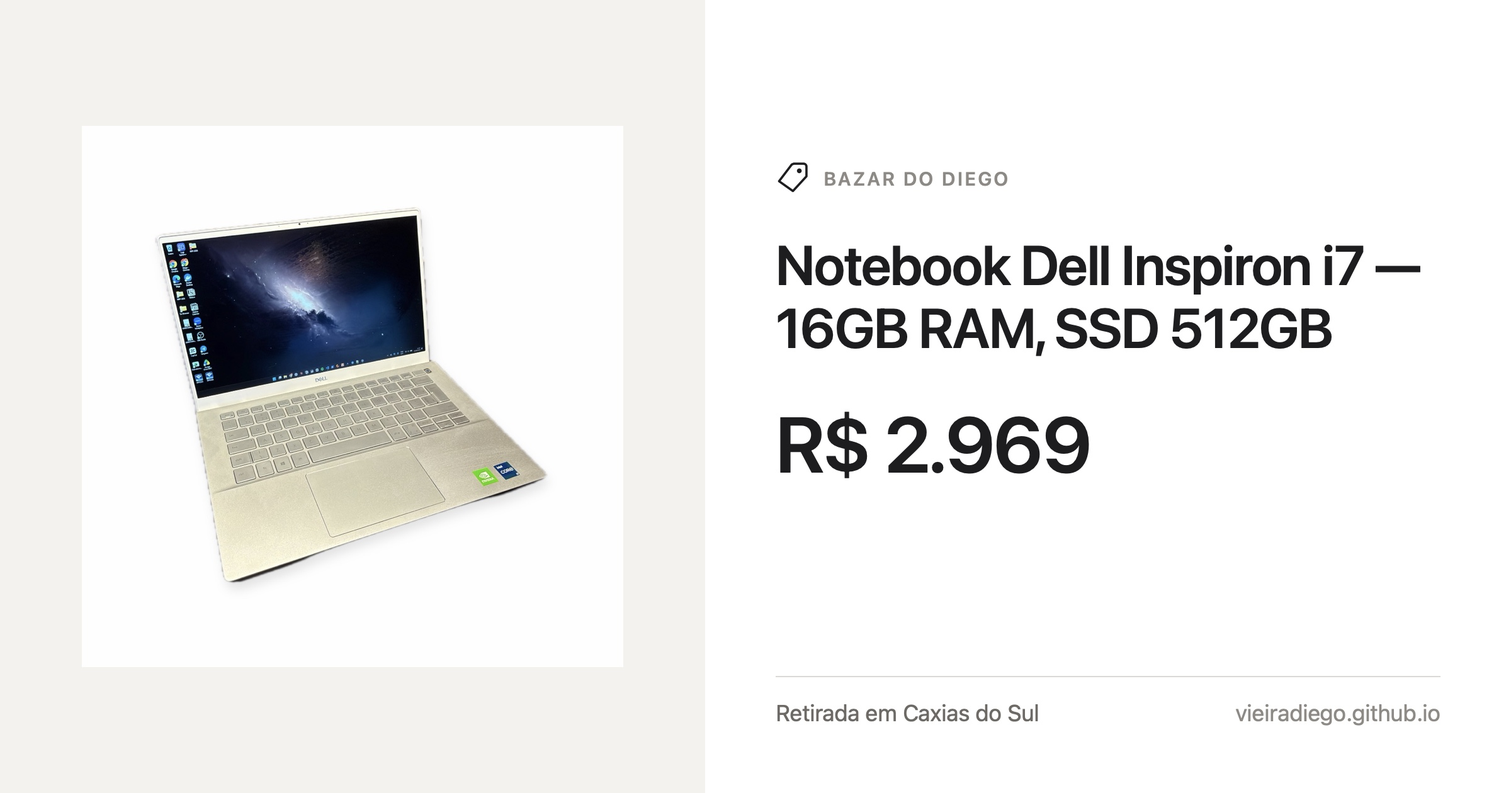
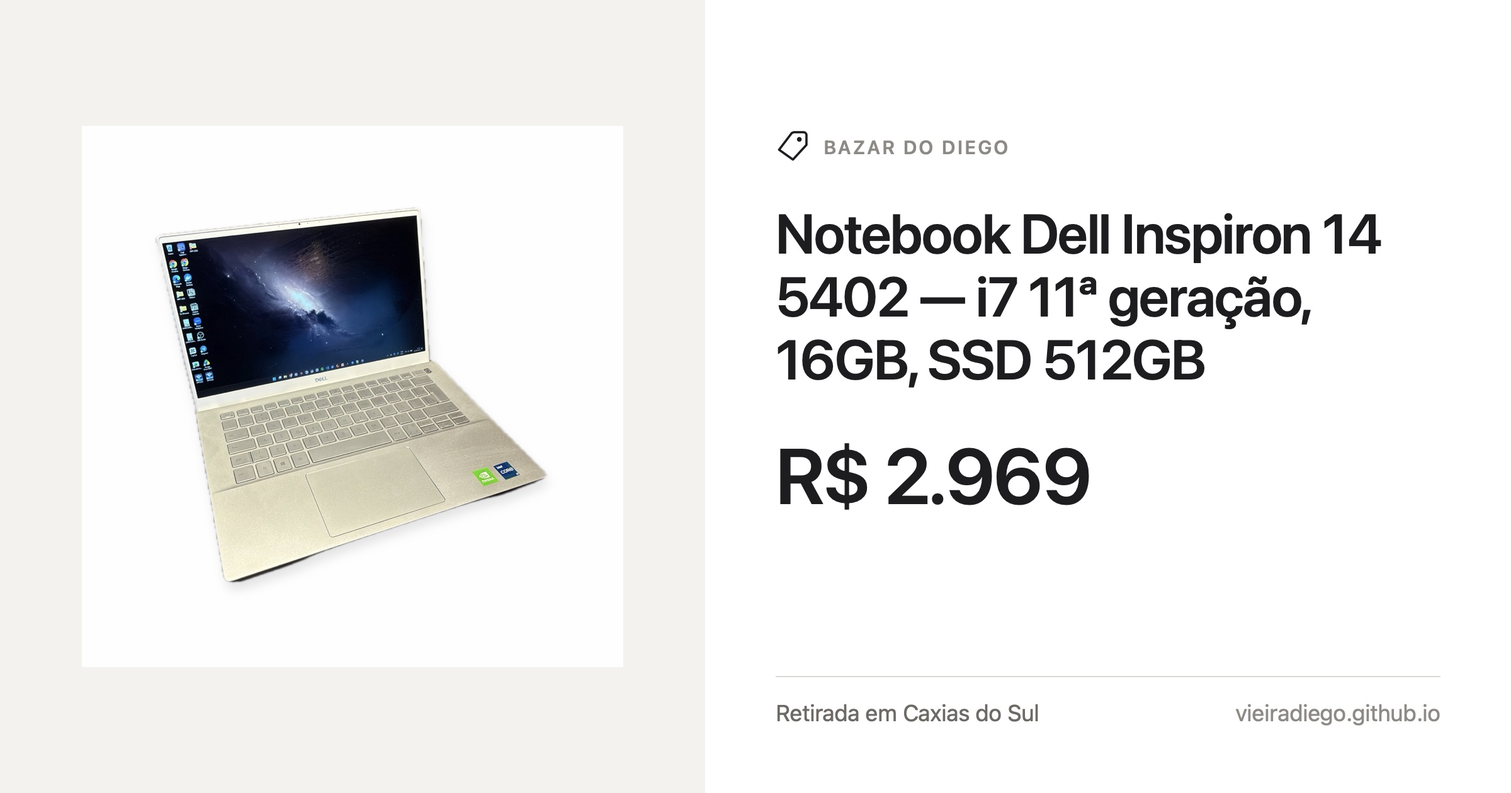
Ficha real do notebook, vinda da Service Tag
Dell Inspiron 14 5402: i7-1165G7 de 11ª geração, 16GB DDR4 3200 em dois
pentes, SSD NVMe 512GB, MX330 2GB, tela 14" FHD antirreflexo, teclado
retroiluminado e leitor de digital.

A identificação anterior por comparação de anúncio apontava um 5490 de
10ª geração — estava errada, e por isso nunca virou referência de preço
no site.

Changed region(s): [[0.5, 0.2476, 0.9375, 0.4952], [0.5, 0.5262, 0.7188, 0.65], [0.5, 0.1548, 0.6562, 0.2476]]

diff --git a/docs/index.html b/docs/index.html
@@ -25,7 +25,7 @@
 <link rel="icon" href="./favicon.svg" type="image/svg+xml">
 <link rel="apple-touch-icon" href="./icone-180.png">
 <script type="application/ld+json">{"@context":"https://schema.org","@type":"WebSite","name":"Bazar do Diego","url":"https://vieiradiego.github.io/bazar-do-diego/","inLanguage":"pt-BR","description":"Itens usados em ótimo estado com preço abaixo do novo, em Caxias do Sul."}</script>
-<script type="application/ld+json">{"@context":"https://schema.org","@type":"ItemList","numberOfItems":34,"itemListElement":[{"@type":"ListItem","position":1,"url":"https://vieiradiego.github.io/bazar-do-diego/item/notebook-dell/","name":"Notebook Dell Inspiron i7 — 16GB RAM, SSD 512GB"},{"@type":"ListItem","position":2,"url":"https://vieiradiego.github.io/bazar-do-diego/item/tablet-galaxy-tab-s9-fe/","name":"Tablet Samsung Galaxy Tab S9 FE+ Wi-Fi 128GB"},{"@type":"ListItem","position":3,"url":"https://vieiradiego.github.io/bazar-do-diego/item/bicicleta-masculina/","name":"Bicicleta Masculina FKS SPEC — MTB aro 29"},{"@type":"ListItem","position":4,"url":"https://vieiradiego.github.io/bazar-do-diego/item/bicicleta-feminina-fks/","name":"Bicicleta Feminina FKS SPEC — MTB aro 29"},{"@type":"ListItem","position":5,"url":"https://vieiradiego.github.io/bazar-do-diego/item/fonte-corsair-rm850i/","name":"Fonte Corsair RM850i 850W 80 Plus Gold Modular"},{"@type":"ListItem","position":6,"url":"https://vieiradiego.github.io/bazar-do-diego/item/memoria-corsair-ddr4-16gb/","name":"Memória Corsair Vengeance LPX 16GB DDR4 2400MHz"},{"@type":"ListItem","position":7,"url":"https://vieiradiego.github.io/bazar-do-diego/item/rack-quadrinhos/","name":"Rack aparador de madeira maciça com tampo de quadrinhos"},{"@type":"ListItem","position":8,"url":"https://vieiradiego.github.io/bazar-do-diego/item/lego-game-boy/","name":"LEGO Game Boy 72046 — lacrado"},{"@type":"ListItem","position":9,"url":"https://vieiradiego.github.io/bazar-do-diego/item/armario-turquesa/","name":"Armário baixo azul turquesa com porta de vidro"},{"@type":"ListItem","position":10,"url":"https://vieiradiego.github.io/bazar-do-diego/item/watercooler-masterliquid-240/","name":"Water Cooler Cooler Master MasterLiquid 240"},{"@type":"ListItem","position":11,"url":"https://vieiradiego.github.io/bazar-do-diego/item/hd-seagate-3tb/","name":"HD Seagate Desktop 3TB — SATA 3.5"},{"@type":"ListItem","position":12,"url":"https://vieiradiego.github.io/bazar-do-diego/item/teclado-logitech-gpro/","name":"Teclado Mecânico Gamer Logitech G PRO TKL"},{"@type":"ListItem","position":13,"url":"https://vieiradiego.github.io/bazar-do-diego/item/poltrona-pallet/","name":"Poltrona de pallet com rodízios — estofado pop art"},{"@type":"ListItem","position":14,"url":"https://vieiradiego.github.io/bazar-do-diego/item/fans-corsair-sp140/","name":"Kit Corsair SP140 RGB PRO — 2 ventoinhas 140mm + Lighting Node CORE"},{"@type":"ListItem","position":15,"url":"https://vieiradiego.github.io/bazar-do-diego/item/hd-wd-purple-2tb/","name":"HD WD Purple 2TB — SATA 3.5 para CFTV"},{"@type":"ListItem","position":16,"url":"https://vieiradiego.github.io/bazar-do-diego/item/airtags/","name":"Apple AirTag 2ª geração"},{"@type":"ListItem","position":17,"url":"https://vieiradiego.github.io/bazar-do-diego/item/cadeiras-pingo/","name":"Cadeira Pingo — assento gota com pés de madeira"},{"@type":"ListItem","position":18,"url":"https://vieiradiego.github.io/bazar-do-diego/item/abafador-howard-leight-kit/","name":"Abafador Eletrônico Howard Leight + óculos + estojo"},{"@type":"ListItem","position":19,"url":"https://vieiradiego.github.io/bazar-do-diego/item/suporte-crianca/","name":"Cadeirinha de bicicleta para criança"},{"@type":"ListItem","position":20,"url":"https://vieiradiego.github.io/bazar-do-diego/item/roteador-tplink/","name":"Roteador TP-Link N750 Dual Band Gigabit (TL-WDR4300)"},{"@type":"ListItem","position":21,"url":"https://vieiradiego.github.io/bazar-do-diego/item/abafador-howard-leight/","name":"Abafador Eletrônico Howard Leight + estojo"},{"@type":"ListItem","position":22,"url":"https://vieiradiego.github.io/bazar-do-diego/item/capacete-rockrider/","name":"Capacete Rockrider Decathlon — tam. 59-62"},{"@type":"ListItem","position":23,"url":"https://vieiradiego.github.io/bazar-do-diego/item/caneca-stanley/","name":"Caneca Térmica Stanley Beer Stein 709ml — nova lacrada"},{"@type":"ListItem","position":24,"url":"https://vieiradiego.github.io/bazar-do-diego/item/hd-toshiba-1tb/","name":"HD Toshiba 1TB 2.5 para notebook — 5400RPM"},{"@type":"ListItem","position":25,"url":"https://vieiradiego.github.io/bazar-do-diego/item/ssd-corsair-240gb/","name":"SSD Corsair Force LE 240GB — SATA 3"},{"@type":"ListItem","position":26,"url":"https://vieiradiego.github.io/bazar-do-diego/item/bolsa-trader-joes/","name":"Bolsa Trader Joe's — sacola de lona importada"},{"@type":"ListItem","position":27,"url":"https://vieiradiego.github.io/bazar-do-diego/item/teclado-hp-slim/","name":"Teclado HP slim USB empresarial"},{"@type":"ListItem","position":28,"url":"https://vieiradiego.github.io/bazar-do-diego/item/kit-limpeza/","name":"Kit de limpeza e manutenção"},{"@type":"ListItem","position":29,"url":"https://vieiradiego.github.io/bazar-do-diego/item/oculos-protetor-3m/","name":"Óculos de proteção + protetor auricular 3M + estojo"},{"@type":"ListItem","position":30,"url":"https://vieiradiego.github.io/bazar-do-diego/item/mouse-logitech-pebble/","name":"Mouse Logitech Pebble 2 M350s sem fio"},{"@type":"ListItem","position":31,"url":"https://vieiradiego.github.io/bazar-do-diego/item/gancho-bike-decathlon/","name":"Gancho de parede e teto para bicicleta — Decathlon"},{"@type":"ListItem","position":32,"url":"https://vieiradiego.github.io/bazar-do-diego/item/mouse-c3tech/","name":"Mouse sem fio C3 Tech M-W20BK"},{"@type":"ListItem","position":33,"url":"https://vieiradiego.github.io/bazar-do-diego/item/cheirinhos-little-trees/","name":"Cheirinho Little Trees — pack com 3"},{"@type":"ListItem","position":34,"url":"https://vieiradiego.github.io/bazar-do-diego/item/teclado-logitech-k400/","name":"Teclado Logitech K400 Plus sem fio com touchpad"}]}</script>
+<script type="application/ld+json">{"@context":"https://schema.org","@type":"ItemList","numberOfItems":34,"itemListElement":[{"@type":"ListItem","position":1,"url":"https://vieiradiego.github.io/bazar-do-diego/item/notebook-dell/","name":"Notebook Dell Inspiron 14 5402 — i7 11ª geração, 16GB, SSD 512GB"},{"@type":"ListItem","position":2,"url":"https://vieiradiego.github.io/bazar-do-diego/item/tablet-galaxy-tab-s9-fe/","name":"Tablet Samsung Galaxy Tab S9 FE+ Wi-Fi 128GB"},{"@type":"ListItem","position":3,"url":"https://vieiradiego.github.io/bazar-do-diego/item/bicicleta-masculina/","name":"Bicicleta Masculina FKS SPEC — MTB aro 29"},{"@type":"ListItem","position":4,"url":"https://vieiradiego.github.io/bazar-do-diego/item/bicicleta-feminina-fks/","name":"Bicicleta Feminina FKS SPEC — MTB aro 29"},{"@type":"ListItem","position":5,"url":"https://vieiradiego.github.io/bazar-do-diego/item/fonte-corsair-rm850i/","name":"Fonte Corsair RM850i 850W 80 Plus Gold Modular"},{"@type":"ListItem","position":6,"url":"https://vieiradiego.github.io/bazar-do-diego/item/memoria-corsair-ddr4-16gb/","name":"Memória Corsair Vengeance LPX 16GB DDR4 2400MHz"},{"@type":"ListItem","position":7,"url":"https://vieiradiego.github.io/bazar-do-diego/item/rack-quadrinhos/","name":"Rack aparador de madeira maciça com tampo de quadrinhos"},{"@type":"ListItem","position":8,"url":"https://vieiradiego.github.io/bazar-do-diego/item/lego-game-boy/","name":"LEGO Game Boy 72046 — lacrado"},{"@type":"ListItem","position":9,"url":"https://vieiradiego.github.io/bazar-do-diego/item/armario-turquesa/","name":"Armário baixo azul turquesa com porta de vidro"},{"@type":"ListItem","position":10,"url":"https://vieiradiego.github.io/bazar-do-diego/item/watercooler-masterliquid-240/","name":"Water Cooler Cooler Master MasterLiquid 240"},{"@type":"ListItem","position":11,"url":"https://vieiradiego.github.io/bazar-do-diego/item/hd-seagate-3tb/","name":"HD Seagate Desktop 3TB — SATA 3.5"},{"@type":"ListItem","position":12,"url":"https://vieiradiego.github.io/bazar-do-diego/item/teclado-logitech-gpro/","name":"Teclado Mecânico Gamer Logitech G PRO TKL"},{"@type":"ListItem","position":13,"url":"https://vieiradiego.github.io/bazar-do-diego/item/poltrona-pallet/","name":"Poltrona de pallet com rodízios — estofado pop art"},{"@type":"ListItem","position":14,"url":"https://vieiradiego.github.io/bazar-do-diego/item/fans-corsair-sp140/","name":"Kit Corsair SP140 RGB PRO — 2 ventoinhas 140mm + Lighting Node CORE"},{"@type":"ListItem","position":15,"url":"https://vieiradiego.github.io/bazar-do-diego/item/hd-wd-purple-2tb/","name":"HD WD Purple 2TB — SATA 3.5 para CFTV"},{"@type":"ListItem","position":16,"url":"https://vieiradiego.github.io/bazar-do-diego/item/airtags/","name":"Apple AirTag 2ª geração"},{"@type":"ListItem","position":17,"url":"https://vieiradiego.github.io/bazar-do-diego/item/cadeiras-pingo/","name":"Cadeira Pingo — assento gota com pés de madeira"},{"@type":"ListItem","position":18,"url":"https://vieiradiego.github.io/bazar-do-diego/item/abafador-howard-leight-kit/","name":"Abafador Eletrônico Howard Leight + óculos + estojo"},{"@type":"ListItem","position":19,"url":"https://vieiradiego.github.io/bazar-do-diego/item/suporte-crianca/","name":"Cadeirinha de bicicleta para criança"},{"@type":"ListItem","position":20,"url":"https://vieiradiego.github.io/bazar-do-diego/item/roteador-tplink/","name":"Roteador TP-Link N750 Dual Band Gigabit (TL-WDR4300)"},{"@type":"ListItem","position":21,"url":"https://vieiradiego.github.io/bazar-do-diego/item/abafador-howard-leight/","name":"Abafador Eletrônico Howard Leight + estojo"},{"@type":"ListItem","position":22,"url":"https://vieiradiego.github.io/bazar-do-diego/item/capacete-rockrider/","name":"Capacete Rockrider Decathlon — tam. 59-62"},{"@type":"ListItem","position":23,"url":"https://vieiradiego.github.io/bazar-do-diego/item/caneca-stanley/","name":"Caneca Térmica Stanley Beer Stein 709ml — nova lacrada"},{"@type":"ListItem","position":24,"url":"https://vieiradiego.github.io/bazar-do-diego/item/hd-toshiba-1tb/","name":"HD Toshiba 1TB 2.5 para notebook — 5400RPM"},{"@type":"ListItem","position":25,"url":"https://vieiradiego.github.io/bazar-do-diego/item/ssd-corsair-240gb/","name":"SSD Corsair Force LE 240GB — SATA 3"},{"@type":"ListItem","position":26,"url":"https://vieiradiego.github.io/bazar-do-diego/item/bolsa-trader-joes/","name":"Bolsa Trader Joe's — sacola de lona importada"},{"@type":"ListItem","position":27,"url":"https://vieiradiego.github.io/bazar-do-diego/item/teclado-hp-slim/","name":"Teclado HP slim USB empresarial"},{"@type":"ListItem","position":28,"url":"https://vieiradiego.github.io/bazar-do-diego/item/kit-limpeza/","name":"Kit de limpeza e manutenção"},{"@type":"ListItem","position":29,"url":"https://vieiradiego.github.io/bazar-do-diego/item/oculos-protetor-3m/","name":"Óculos de proteção + protetor auricular 3M + estojo"},{"@type":"ListItem","position":30,"url":"https://vieiradiego.github.io/bazar-do-diego/item/mouse-logitech-pebble/","name":"Mouse Logitech Pebble 2 M350s sem fio"},{"@type":"ListItem","position":31,"url":"https://vieiradiego.github.io/bazar-do-diego/item/gancho-bike-decathlon/","name":"Gancho de parede e teto para bicicleta — Decathlon"},{"@type":"ListItem","position":32,"url":"https://vieiradiego.github.io/bazar-do-diego/item/mouse-c3tech/","name":"Mouse sem fio C3 Tech M-W20BK"},{"@type":"ListItem","position":33,"url":"https://vieiradiego.github.io/bazar-do-diego/item/cheirinhos-little-trees/","name":"Cheirinho Little Trees — pack com 3"},{"@type":"ListItem","position":34,"url":"https://vieiradiego.github.io/bazar-do-diego/item/teclado-logitech-k400/","name":"Teclado Logitech K400 Plus sem fio com touchpad"}]}</script>
 <style>
   :root{
     --tinta:#1D1D1F; --pedra:#6E6A66; --terciaria:#8E8A85;
@@ -296,30 +296,30 @@
   <div class="grade" id="grade">
 <article class="card item" id="item-notebook-dell"
   data-categoria="Eletrônicos" data-status="disponivel"
-  data-busca="notebook dell inspiron i7 — 16gb ram, ssd 512gb eletronicos notebook dell inspiron com processador intel core i7, 16gb de memoria ram e ssd de 512gb. placa de video nvidia dedicada. tela sem bordas, acabamento em aluminio. funcionando perfeitamente, sem travamentos. ideal para trabalho, estudo e edicao leve."
-  data-url="https://vieiradiego.github.io/bazar-do-diego/item/notebook-dell/" data-nome="Notebook Dell Inspiron i7 — 16GB RAM, SSD 512GB" data-preco="2.969" data-ref="" data-desconto="" data-qtd="1" data-fotos='["./fotos/notebook-dell-01.jpg","./fotos/notebook-dell-02.jpg","./fotos/notebook-dell-03.jpg"]'>
+  data-busca="notebook dell inspiron 14 5402 — i7 11ª geracao, 16gb, ssd 512gb eletronicos dell inspiron 14 5402 na cor platinum silver. processador intel core i7-1165g7 de 11ª geracao (4 nucleos, 8 threads, 12mb de cache, ate 4.7 ghz), 16gb de ram ddr4 3200mhz em dois pentes de 8gb trabalhando em dual channel, e ssd nvme de 512gb. placa de video dedicada nvidia geforce mx330 de 2gb gddr5. tela de 14 polegadas full hd 1920x1080 antirreflexo, de borda fina. teclado retroiluminado com leitor de digital no botao de ligar, bateria de 53wh e fonte de 65w. windows 10 home original de fabrica. funcionando perfeitamente, sem travamentos."
+  data-url="https://vieiradiego.github.io/bazar-do-diego/item/notebook-dell/" data-nome="Notebook Dell Inspiron 14 5402 — i7 11ª geração, 16GB, SSD 512GB" data-preco="2.969" data-ref="" data-desconto="" data-qtd="1" data-fotos='["./fotos/notebook-dell-01.jpg","./fotos/notebook-dell-02.jpg","./fotos/notebook-dell-03.jpg"]'>
   <div class="visual">
       <div class="trilho"><button class="quadro" type="button" data-i="0" aria-label="Ampliar foto 1 de 3">
-          <img src="./fotos/notebook-dell-01.jpg" alt="Notebook Dell Inspiron i7 — 16GB RAM, SSD 512GB — foto 1" loading="eager" decoding="async" width="1000" height="1000">
+          <img src="./fotos/notebook-dell-01.jpg" alt="Notebook Dell Inspiron 14 5402 — i7 11ª geração, 16GB, SSD 512GB — foto 1" loading="eager" decoding="async" width="1000" height="1000">
         </button><button class="quadro" type="button" data-i="1" aria-label="Ampliar foto 2 de 3">
-          <img src="./fotos/notebook-dell-02.jpg" alt="Notebook Dell Inspiron i7 — 16GB RAM, SSD 512GB — foto 2" loading="lazy" decoding="async" width="1000" height="1000">
+          <img src="./fotos/notebook-dell-02.jpg" alt="Notebook Dell Inspiron 14 5402 — i7 11ª geração, 16GB, SSD 512GB — foto 2" loading="lazy" decoding="async" width="1000" height="1000">
         </button><button class="quadro" type="button" data-i="2" aria-label="Ampliar foto 3 de 3">
-          <img src="./fotos/notebook-dell-03.jpg" alt="Notebook Dell Inspiron i7 — 16GB RAM, SSD 512GB — foto 3" loading="lazy" decoding="async" width="1000" height="1000">
+          <img src="./fotos/notebook-dell-03.jpg" alt="Notebook Dell Inspiron 14 5402 — i7 11ª geração, 16GB, SSD 512GB — foto 3" loading="lazy" decoding="async" width="1000" height="1000">
         </button></div>
       <div class="pontos" aria-hidden="true"><i class="on"></i><i></i><i></i></div>
       <span class="dica-zoom" aria-hidden="true"><svg viewBox="0 0 24 24" fill="none" stroke="currentColor" stroke-width="1.8" stroke-linecap="round" stroke-linejoin="round" aria-hidden="true"><circle cx="11" cy="11" r="7"/><path d="m20 20-3.5-3.5M11 8v6M8 11h6"/></svg></span>
     </div>
   <div class="corpo">
     <p class="meta"><span class="badge ok">Disponível</span></p>
-    <h2><a href="./item/notebook-dell/">Notebook Dell Inspiron i7 — 16GB RAM, SSD 512GB<svg viewBox="0 0 24 24" fill="none" stroke="currentColor" stroke-width="1.8" stroke-linecap="round" stroke-linejoin="round" aria-hidden="true"><path d="m15 5-7 7 7 7"/></svg></a></h2>
-    <p class="desc">Notebook Dell Inspiron com processador Intel Core i7, 16GB de memória RAM e SSD de 512GB. Placa de vídeo NVIDIA dedicada. Tela sem bordas, acabamento em alumínio. Funcionando perfeitamente, sem travamentos. Ideal para trabalho, estudo e edição leve.</p>
+    <h2><a href="./item/notebook-dell/">Notebook Dell Inspiron 14 5402 — i7 11ª geração, 16GB, SSD 512GB<svg viewBox="0 0 24 24" fill="none" stroke="currentColor" stroke-width="1.8" stroke-linecap="round" stroke-linejoin="round" aria-hidden="true"><path d="m15 5-7 7 7 7"/></svg></a></h2>
+    <p class="desc">Dell Inspiron 14 5402 na cor Platinum Silver. Processador Intel Core i7-1165G7 de 11ª geração (4 núcleos, 8 threads, 12MB de cache, até 4.7 GHz), 16GB de RAM DDR4 3200MHz em dois pentes de 8GB trabalhando em dual channel, e SSD NVMe de 512GB. Placa de vídeo dedicada NVIDIA GeForce MX330 de 2GB GDDR5. Tela de 14 polegadas Full HD 1920x1080 antirreflexo, de borda fina. Teclado retroiluminado com leitor de digital no botão de ligar, bateria de 53Wh e fonte de 65W. Windows 10 Home original de fábrica. Funcionando perfeitamente, sem travamentos.</p>
     <p class="precos">
       <span class="preco">R$ 2.969</span>
       
     </p>
     
     <div class="acoes">
-      <a class="btn primario" href="https://wa.me/5554991845555?text=Ol%C3%A1!%20Tenho%20interesse%20no%20item%3A%20Notebook%20Dell%20Inspiron%20i7%20%E2%80%94%2016GB%20RAM%2C%20SSD%20512GB%20(R%24%202.969)%0Ahttps%3A%2F%2Fvieiradiego.github.io%2Fbazar-do-diego%2Fitem%2Fnotebook-dell%2F" target="_blank" rel="noopener"><svg viewBox="0 0 24 24" fill="currentColor" aria-hidden="true"><path d="M17.5 14.4c-.3-.2-1.7-.9-2-1-.3-.1-.5-.2-.7.1-.2.3-.7 1-.9 1.2-.2.2-.3.2-.6.1-.3-.2-1.2-.5-2.3-1.4-.9-.8-1.4-1.7-1.6-2-.2-.3 0-.5.1-.6l.5-.5c.1-.2.2-.3.3-.5 0-.2 0-.4 0-.5 0-.2-.7-1.6-.9-2.2-.2-.6-.5-.5-.7-.5h-.6c-.2 0-.5.1-.8.4-.3.3-1 1-1 2.4S7.4 12.5 7.5 12.7c.2.2 2 3.1 4.9 4.3.7.3 1.2.5 1.6.6.7.2 1.3.2 1.8.1.6-.1 1.7-.7 1.9-1.3.2-.7.2-1.2.2-1.3-.1-.2-.3-.3-.5-.4Z"/><path d="M12 2a10 10 0 0 0-8.6 15L2 22l5.2-1.4A10 10 0 1 0 12 2Zm0 18.2c-1.6 0-3.1-.4-4.4-1.2l-.3-.2-3.1.8.8-3-.2-.3A8.2 8.2 0 1 1 12 20.2Z"/></svg><span>Tenho interesse</span></a>
+      <a class="btn primario" href="https://wa.me/5554991845555?text=Ol%C3%A1!%20Tenho%20interesse%20no%20item%3A%20Notebook%20Dell%20Inspiron%2014%205402%20%E2%80%94%20i7%2011%C2%AA%20gera%C3%A7%C3%A3o%2C%2016GB%2C%20SSD%20512GB%20(R%24%202.969)%0Ahttps%3A%2F%2Fvieiradiego.github.io%2Fbazar-do-diego%2Fitem%2Fnotebook-dell%2F" target="_blank" rel="noopener"><svg viewBox="0 0 24 24" fill="currentColor" aria-hidden="true"><path d="M17.5 14.4c-.3-.2-1.7-.9-2-1-.3-.1-.5-.2-.7.1-.2.3-.7 1-.9 1.2-.2.2-.3.2-.6.1-.3-.2-1.2-.5-2.3-1.4-.9-.8-1.4-1.7-1.6-2-.2-.3 0-.5.1-.6l.5-.5c.1-.2.2-.3.3-.5 0-.2 0-.4 0-.5 0-.2-.7-1.6-.9-2.2-.2-.6-.5-.5-.7-.5h-.6c-.2 0-.5.1-.8.4-.3.3-1 1-1 2.4S7.4 12.5 7.5 12.7c.2.2 2 3.1 4.9 4.3.7.3 1.2.5 1.6.6.7.2 1.3.2 1.8.1.6-.1 1.7-.7 1.9-1.3.2-.7.2-1.2.2-1.3-.1-.2-.3-.3-.5-.4Z"/><path d="M12 2a10 10 0 0 0-8.6 15L2 22l5.2-1.4A10 10 0 1 0 12 2Zm0 18.2c-1.6 0-3.1-.4-4.4-1.2l-.3-.2-3.1.8.8-3-.2-.3A8.2 8.2 0 1 1 12 20.2Z"/></svg><span>Tenho interesse</span></a>
       <div class="acoes-sec">
         <button class="btn secundario compartilhar" type="button"><svg viewBox="0 0 24 24" fill="none" stroke="currentColor" stroke-width="1.7" stroke-linecap="round" stroke-linejoin="round" aria-hidden="true"><path d="M12 15V3"/><path d="m8 7 4-4 4 4"/><path d="M5 12v7a2 2 0 0 0 2 2h10a2 2 0 0 0 2-2v-7"/></svg><span>Compartilhar</span></button>
         <button class="btn secundario copiar-link" type="button"><svg viewBox="0 0 24 24" fill="none" stroke="currentColor" stroke-width="1.7" stroke-linecap="round" stroke-linejoin="round" aria-hidden="true"><path d="M10 13a5 5 0 0 0 7.5.5l3-3a5 5 0 0 0-7-7l-1.7 1.7"/><path d="M14 11a5 5 0 0 0-7.5-.5l-3 3a5 5 0 0 0 7 7l1.7-1.7"/></svg><span>Copiar link</span></button>

diff --git a/docs/item/notebook-dell/index.html b/docs/item/notebook-dell/index.html
@@ -3,29 +3,29 @@
 <head>
 <meta charset="utf-8">
 <meta name="viewport" content="width=device-width, initial-scale=1, viewport-fit=cover">
-<title>Notebook Dell Inspiron i7 — 16GB RAM, SSD 512GB — R$ 2.969 · Bazar do Diego</title>
-<meta name="description" content="Notebook Dell Inspiron com processador Intel Core i7, 16GB de memória RAM e SSD de 512GB. Placa de vídeo NVIDIA dedicada. Tela sem bordas, acabamento em al">
+<title>Notebook Dell Inspiron 14 5402 — i7 11ª geração, 16GB, SSD 512GB — R$ 2.969 · Bazar do Diego</title>
+<meta name="description" content="Dell Inspiron 14 5402 na cor Platinum Silver. Processador Intel Core i7-1165G7 de 11ª geração (4 núcleos, 8 threads, 12MB de cache, até 4.7 GHz), 16GB de R">
 <link rel="canonical" href="https://vieiradiego.github.io/bazar-do-diego/item/notebook-dell/">
 <meta name="theme-color" content="#ffffff" media="(prefers-color-scheme: light)">
 <meta name="theme-color" content="#000000" media="(prefers-color-scheme: dark)">
 <meta property="og:site_name" content="Bazar do Diego">
 <meta property="og:locale" content="pt_BR">
 <meta property="og:type" content="product">
-<meta property="og:title" content="Notebook Dell Inspiron i7 — 16GB RAM, SSD 512GB — R$ 2.969 · Bazar do Diego">
-<meta property="og:description" content="Notebook Dell Inspiron com processador Intel Core i7, 16GB de memória RAM e SSD de 512GB. Placa de vídeo NVIDIA dedicada. Tela sem bordas, acabamento em al">
+<meta property="og:title" content="Notebook Dell Inspiron 14 5402 — i7 11ª geração, 16GB, SSD 512GB — R$ 2.969 · Bazar do Diego">
+<meta property="og:description" content="Dell Inspiron 14 5402 na cor Platinum Silver. Processador Intel Core i7-1165G7 de 11ª geração (4 núcleos, 8 threads, 12MB de cache, até 4.7 GHz), 16GB de R">
 <meta property="og:url" content="https://vieiradiego.github.io/bazar-do-diego/item/notebook-dell/">
 <meta property="og:image" content="https://vieiradiego.github.io/bazar-do-diego/social/notebook-dell.jpg">
 <meta property="og:image:width" content="1200">
 <meta property="og:image:height" content="630">
-<meta property="og:image:alt" content="Notebook Dell Inspiron i7 — 16GB RAM, SSD 512GB — R$ 2.969 · Bazar do Diego">
+<meta property="og:image:alt" content="Notebook Dell Inspiron 14 5402 — i7 11ª geração, 16GB, SSD 512GB — R$ 2.969 · Bazar do Diego">
 <meta name="twitter:card" content="summary_large_image">
-<meta name="twitter:title" content="Notebook Dell Inspiron i7 — 16GB RAM, SSD 512GB — R$ 2.969 · Bazar do Diego">
-<meta name="twitter:description" content="Notebook Dell Inspiron com processador Intel Core i7, 16GB de memória RAM e SSD de 512GB. Placa de vídeo NVIDIA dedicada. Tela sem bordas, acabamento em al">
+<meta name="twitter:title" content="Notebook Dell Inspiron 14 5402 — i7 11ª geração, 16GB, SSD 512GB — R$ 2.969 · Bazar do Diego">
+<meta name="twitter:description" content="Dell Inspiron 14 5402 na cor Platinum Silver. Processador Intel Core i7-1165G7 de 11ª geração (4 núcleos, 8 threads, 12MB de cache, até 4.7 GHz), 16GB de R">
 <meta name="twitter:image" content="https://vieiradiego.github.io/bazar-do-diego/social/notebook-dell.jpg">
 <link rel="icon" href="../../favicon.svg" type="image/svg+xml">
 <link rel="apple-touch-icon" href="../../icone-180.png">
-<script type="application/ld+json">{"@context":"https://schema.org","@type":"Product","name":"Notebook Dell Inspiron i7 — 16GB RAM, SSD 512GB","description":"Notebook Dell Inspiron com processador Intel Core i7, 16GB de memória RAM e SSD de 512GB. Placa de vídeo NVIDIA dedicada. Tela sem bordas, acabamento em alumínio. Funcionando perfeitamente, sem travamentos. Ideal para trabalho, estudo e edição leve.","image":["https://vieiradiego.github.io/bazar-do-diego/fotos/notebook-dell-01.jpg","https://vieiradiego.github.io/bazar-do-diego/fotos/notebook-dell-02.jpg","https://vieiradiego.github.io/bazar-do-diego/fotos/notebook-dell-03.jpg"],"category":"Eletrônicos","itemCondition":"https://schema.org/UsedCondition","offers":{"@type":"Offer","url":"https://vieiradiego.github.io/bazar-do-diego/item/notebook-dell/","price":"2969.00","priceCurrency":"BRL","availability":"https://schema.org/InStock","itemCondition":"https://schema.org/UsedCondition","seller":{"@type":"Person","name":"Bazar do Diego"},"areaServed":{"@type":"City","name":"Caxias do Sul"}}}</script>
-<script type="application/ld+json">{"@context":"https://schema.org","@type":"BreadcrumbList","itemListElement":[{"@type":"ListItem","position":1,"name":"Bazar do Diego","item":"https://vieiradiego.github.io/bazar-do-diego/"},{"@type":"ListItem","position":2,"name":"Eletrônicos","item":"https://vieiradiego.github.io/bazar-do-diego/"},{"@type":"ListItem","position":3,"name":"Notebook Dell Inspiron i7 — 16GB RAM, SSD 512GB","item":"https://vieiradiego.github.io/bazar-do-diego/item/notebook-dell/"}]}</script>
+<script type="application/ld+json">{"@context":"https://schema.org","@type":"Product","name":"Notebook Dell Inspiron 14 5402 — i7 11ª geração, 16GB, SSD 512GB","description":"Dell Inspiron 14 5402 na cor Platinum Silver. Processador Intel Core i7-1165G7 de 11ª geração (4 núcleos, 8 threads, 12MB de cache, até 4.7 GHz), 16GB de RAM DDR4 3200MHz em dois pentes de 8GB trabalhando em dual channel, e SSD NVMe de 512GB. Placa de vídeo dedicada NVIDIA GeForce MX330 de 2GB GDDR5. Tela de 14 polegadas Full HD 1920x1080 antirreflexo, de borda fina. Teclado retroiluminado com leitor de digital no botão de ligar, bateria de 53Wh e fonte de 65W. Windows 10 Home original de fábrica. Funcionando perfeitamente, sem travamentos.","image":["https://vieiradiego.github.io/bazar-do-diego/fotos/notebook-dell-01.jpg","https://vieiradiego.github.io/bazar-do-diego/fotos/notebook-dell-02.jpg","https://vieiradiego.github.io/bazar-do-diego/fotos/notebook-dell-03.jpg"],"category":"Eletrônicos","itemCondition":"https://schema.org/UsedCondition","offers":{"@type":"Offer","url":"https://vieiradiego.github.io/bazar-do-diego/item/notebook-dell/","price":"2969.00","priceCurrency":"BRL","availability":"https://schema.org/InStock","itemCondition":"https://schema.org/UsedCondition","seller":{"@type":"Person","name":"Bazar do Diego"},"areaServed":{"@type":"City","name":"Caxias do Sul"}}}</script>
+<script type="application/ld+json">{"@context":"https://schema.org","@type":"BreadcrumbList","itemListElement":[{"@type":"ListItem","position":1,"name":"Bazar do Diego","item":"https://vieiradiego.github.io/bazar-do-diego/"},{"@type":"ListItem","position":2,"name":"Eletrônicos","item":"https://vieiradiego.github.io/bazar-do-diego/"},{"@type":"ListItem","position":3,"name":"Notebook Dell Inspiron 14 5402 — i7 11ª geração, 16GB, SSD 512GB","item":"https://vieiradiego.github.io/bazar-do-diego/item/notebook-dell/"}]}</script>
 <style>
   :root{
     --tinta:#1D1D1F; --pedra:#6E6A66; --terciaria:#8E8A85;
@@ -267,34 +267,34 @@
   <a class="marca" href="../../"><svg viewBox="0 0 48 48" width="19" height="19" fill="none" aria-hidden="true"><path d="M25.6 4.5H39.5a4 4 0 0 1 4 4v13.9a4 4 0 0 1-1.17 2.83L24.4 43.16a4 4 0 0 1-5.66 0L4.84 29.26a4 4 0 0 1 0-5.66L22.77 5.67a4 4 0 0 1 2.83-1.17Z" stroke="currentColor" stroke-width="3.2"/><circle cx="33.4" cy="14.6" r="3.4" fill="currentColor"/></svg><b>Bazar do Diego</b></a>
 </div>
 
-<article class="produto item" data-url="https://vieiradiego.github.io/bazar-do-diego/item/notebook-dell/" data-nome="Notebook Dell Inspiron i7 — 16GB RAM, SSD 512GB" data-preco="2.969" data-ref="" data-desconto="" data-qtd="1" data-fotos='["../../fotos/notebook-dell-01.jpg","../../fotos/notebook-dell-02.jpg","../../fotos/notebook-dell-03.jpg"]'>
+<article class="produto item" data-url="https://vieiradiego.github.io/bazar-do-diego/item/notebook-dell/" data-nome="Notebook Dell Inspiron 14 5402 — i7 11ª geração, 16GB, SSD 512GB" data-preco="2.969" data-ref="" data-desconto="" data-qtd="1" data-fotos='["../../fotos/notebook-dell-01.jpg","../../fotos/notebook-dell-02.jpg","../../fotos/notebook-dell-03.jpg"]'>
   <div class="visual">
       <div class="trilho"><button class="quadro" type="button" data-i="0" aria-label="Ampliar foto 1 de 3">
-          <img src="../../fotos/notebook-dell-01.jpg" alt="Notebook Dell Inspiron i7 — 16GB RAM, SSD 512GB — foto 1" loading="eager" decoding="async" width="1000" height="1000">
+          <img src="../../fotos/notebook-dell-01.jpg" alt="Notebook Dell Inspiron 14 5402 — i7 11ª geração, 16GB, SSD 512GB — foto 1" loading="eager" decoding="async" width="1000" height="1000">
         </button><button class="quadro" type="button" data-i="1" aria-label="Ampliar foto 2 de 3">
-          <img src="../../fotos/notebook-dell-02.jpg" alt="Notebook Dell Inspiron i7 — 16GB RAM, SSD 512GB — foto 2" loading="lazy" decoding="async" width="1000" height="1000">
+          <img src="../../fotos/notebook-dell-02.jpg" alt="Notebook Dell Inspiron 14 5402 — i7 11ª geração, 16GB, SSD 512GB — foto 2" loading="lazy" decoding="async" width="1000" height="1000">
         </button><button class="quadro" type="button" data-i="2" aria-label="Ampliar foto 3 de 3">
-          <img src="../../fotos/notebook-dell-03.jpg" alt="Notebook Dell Inspiron i7 — 16GB RAM, SSD 512GB — foto 3" loading="lazy" decoding="async" width="1000" height="1000">
+          <img src="../../fotos/notebook-dell-03.jpg" alt="Notebook Dell Inspiron 14 5402 — i7 11ª geração, 16GB, SSD 512GB — foto 3" loading="lazy" decoding="async" width="1000" height="1000">
         </button></div>
       <div class="pontos" aria-hidden="true"><i class="on"></i><i></i><i></i></div>
       <span class="dica-zoom" aria-hidden="true"><svg viewBox="0 0 24 24" fill="none" stroke="currentColor" stroke-width="1.8" stroke-linecap="round" stroke-linejoin="round" aria-hidden="true"><circle cx="11" cy="11" r="7"/><path d="m20 20-3.5-3.5M11 8v6M8 11h6"/></svg></span>
     </div>
   <div class="ficha">
     <p class="meta"><span class="badge ok">Disponível</span><span class="qtd">Eletrônicos</span></p>
-    <h1>Notebook Dell Inspiron i7 — 16GB RAM, SSD 512GB</h1>
+    <h1>Notebook Dell Inspiron 14 5402 — i7 11ª geração, 16GB, SSD 512GB</h1>
     <p class="precos">
       <span class="preco">R$ 2.969</span>
       
     </p>
     
-    <p class="desc">Notebook Dell Inspiron com processador Intel Core i7, 16GB de memória RAM e SSD de 512GB. Placa de vídeo NVIDIA dedicada. Tela sem bordas, acabamento em alumínio. Funcionando perfeitamente, sem travamentos. Ideal para trabalho, estudo e edição leve.</p>
+    <p class="desc">Dell Inspiron 14 5402 na cor Platinum Silver. Processador Intel Core i7-1165G7 de 11ª geração (4 núcleos, 8 threads, 12MB de cache, até 4.7 GHz), 16GB de RAM DDR4 3200MHz em dois pentes de 8GB trabalhando em dual channel, e SSD NVMe de 512GB. Placa de vídeo dedicada NVIDIA GeForce MX330 de 2GB GDDR5. Tela de 14 polegadas Full HD 1920x1080 antirreflexo, de borda fina. Teclado retroiluminado com leitor de digital no botão de ligar, bateria de 53Wh e fonte de 65W. Windows 10 Home original de fábrica. Funcionando perfeitamente, sem travamentos.</p>
     <div class="condicoes">
       <div><svg viewBox="0 0 24 24" fill="none" stroke="currentColor" stroke-width="1.6" stroke-linecap="round" stroke-linejoin="round" aria-hidden="true"><path d="M20 10c0 6-8 12-8 12S4 16 4 10a8 8 0 1 1 16 0Z"/><circle cx="12" cy="10" r="3"/></svg><span>Retirada em Caxias do Sul — RS</span></div>
       <div><svg viewBox="0 0 24 24" fill="none" stroke="currentColor" stroke-width="1.6" stroke-linecap="round" stroke-linejoin="round" aria-hidden="true"><rect x="2.5" y="5.5" width="19" height="13" rx="2.5"/><path d="M2.5 10h19"/></svg><span>Dinheiro ou Pix na retirada</span></div>
       <div><svg viewBox="0 0 24 24" fill="none" stroke="currentColor" stroke-width="1.6" stroke-linecap="round" stroke-linejoin="round" aria-hidden="true"><circle cx="12" cy="12" r="9"/><path d="M12 7.5v5l3 2"/></svg><span>Pode conferir tudo antes de levar</span></div>
     </div>
     <div class="acoes">
-      <a class="btn primario" href="https://wa.me/5554991845555?text=Ol%C3%A1!%20Tenho%20interesse%20no%20item%3A%20Notebook%20Dell%20Inspiron%20i7%20%E2%80%94%2016GB%20RAM%2C%20SSD%20512GB%20(R%24%202.969)%0Ahttps%3A%2F%2Fvieiradiego.github.io%2Fbazar-do-diego%2Fitem%2Fnotebook-dell%2F" target="_blank" rel="noopener"><svg viewBox="0 0 24 24" fill="currentColor" aria-hidden="true"><path d="M17.5 14.4c-.3-.2-1.7-.9-2-1-.3-.1-.5-.2-.7.1-.2.3-.7 1-.9 1.2-.2.2-.3.2-.6.1-.3-.2-1.2-.5-2.3-1.4-.9-.8-1.4-1.7-1.6-2-.2-.3 0-.5.1-.6l.5-.5c.1-.2.2-.3.3-.5 0-.2 0-.4 0-.5 0-.2-.7-1.6-.9-2.2-.2-.6-.5-.5-.7-.5h-.6c-.2 0-.5.1-.8.4-.3.3-1 1-1 2.4S7.4 12.5 7.5 12.7c.2.2 2 3.1 4.9 4.3.7.3 1.2.5 1.6.6.7.2 1.3.2 1.8.1.6-.1 1.7-.7 1.9-1.3.2-.7.2-1.2.2-1.3-.1-.2-.3-.3-.5-.4Z"/><path d="M12 2a10 10 0 0 0-8.6 15L2 22l5.2-1.4A10 10 0 1 0 12 2Zm0 18.2c-1.6 0-3.1-.4-4.4-1.2l-.3-.2-3.1.8.8-3-.2-.3A8.2 8.2 0 1 1 12 20.2Z"/></svg><span>Tenho interesse</span></a>
+      <a class="btn primario" href="https://wa.me/5554991845555?text=Ol%C3%A1!%20Tenho%20interesse%20no%20item%3A%20Notebook%20Dell%20Inspiron%2014%205402%20%E2%80%94%20i7%2011%C2%AA%20gera%C3%A7%C3%A3o%2C%2016GB%2C%20SSD%20512GB%20(R%24%202.969)%0Ahttps%3A%2F%2Fvieiradiego.github.io%2Fbazar-do-diego%2Fitem%2Fnotebook-dell%2F" target="_blank" rel="noopener"><svg viewBox="0 0 24 24" fill="currentColor" aria-hidden="true"><path d="M17.5 14.4c-.3-.2-1.7-.9-2-1-.3-.1-.5-.2-.7.1-.2.3-.7 1-.9 1.2-.2.2-.3.2-.6.1-.3-.2-1.2-.5-2.3-1.4-.9-.8-1.4-1.7-1.6-2-.2-.3 0-.5.1-.6l.5-.5c.1-.2.2-.3.3-.5 0-.2 0-.4 0-.5 0-.2-.7-1.6-.9-2.2-.2-.6-.5-.5-.7-.5h-.6c-.2 0-.5.1-.8.4-.3.3-1 1-1 2.4S7.4 12.5 7.5 12.7c.2.2 2 3.1 4.9 4.3.7.3 1.2.5 1.6.6.7.2 1.3.2 1.8.1.6-.1 1.7-.7 1.9-1.3.2-.7.2-1.2.2-1.3-.1-.2-.3-.3-.5-.4Z"/><path d="M12 2a10 10 0 0 0-8.6 15L2 22l5.2-1.4A10 10 0 1 0 12 2Zm0 18.2c-1.6 0-3.1-.4-4.4-1.2l-.3-.2-3.1.8.8-3-.2-.3A8.2 8.2 0 1 1 12 20.2Z"/></svg><span>Tenho interesse</span></a>
       <div class="acoes-sec">
         <button class="btn secundario compartilhar" type="button"><svg viewBox="0 0 24 24" fill="none" stroke="currentColor" stroke-width="1.7" stroke-linecap="round" stroke-linejoin="round" aria-hidden="true"><path d="M12 15V3"/><path d="m8 7 4-4 4 4"/><path d="M5 12v7a2 2 0 0 0 2 2h10a2 2 0 0 0 2-2v-7"/></svg><span>Compartilhar</span></button>
         <button class="btn secundario copiar-link" type="button"><svg viewBox="0 0 24 24" fill="none" stroke="currentColor" stroke-width="1.7" stroke-linecap="round" stroke-linejoin="round" aria-hidden="true"><path d="M10 13a5 5 0 0 0 7.5.5l3-3a5 5 0 0 0-7-7l-1.7 1.7"/><path d="M14 11a5 5 0 0 0-7.5-.5l-3 3a5 5 0 0 0 7 7l1.7-1.7"/></svg><span>Copiar link</span></button>
@@ -331,7 +331,7 @@
 
 <div class="acao-fixa">
   <span class="valor"><b>R$ 2.969</b></span>
-  <a class="btn primario" href="https://wa.me/5554991845555?text=Ol%C3%A1!%20Tenho%20interesse%20no%20item%3A%20Notebook%20Dell%20Inspiron%20i7%20%E2%80%94%2016GB%20RAM%2C%20SSD%20512GB%20(R%24%202.969)%0Ahttps%3A%2F%2Fvieiradiego.github.io%2Fbazar-do-diego%2Fitem%2Fnotebook-dell%2F" target="_blank" rel="noopener"><svg viewBox="0 0 24 24" fill="currentColor" aria-hidden="true"><path d="M17.5 14.4c-.3-.2-1.7-.9-2-1-.3-.1-.5-.2-.7.1-.2.3-.7 1-.9 1.2-.2.2-.3.2-.6.1-.3-.2-1.2-.5-2.3-1.4-.9-.8-1.4-1.7-1.6-2-.2-.3 0-.5.1-.6l.5-.5c.1-.2.2-.3.3-.5 0-.2 0-.4 0-.5 0-.2-.7-1.6-.9-2.2-.2-.6-.5-.5-.7-.5h-.6c-.2 0-.5.1-.8.4-.3.3-1 1-1 2.4S7.4 12.5 7.5 12.7c.2.2 2 3.1 4.9 4.3.7.3 1.2.5 1.6.6.7.2 1.3.2 1.8.1.6-.1 1.7-.7 1.9-1.3.2-.7.2-1.2.2-1.3-.1-.2-.3-.3-.5-.4Z"/><path d="M12 2a10 10 0 0 0-8.6 15L2 22l5.2-1.4A10 10 0 1 0 12 2Zm0 18.2c-1.6 0-3.1-.4-4.4-1.2l-.3-.2-3.1.8.8-3-.2-.3A8.2 8.2 0 1 1 12 20.2Z"/></svg><span>Tenho interesse</span></a>
+  <a class="btn primario" href="https://wa.me/5554991845555?text=Ol%C3%A1!%20Tenho%20interesse%20no%20item%3A%20Notebook%20Dell%20Inspiron%2014%205402%20%E2%80%94%20i7%2011%C2%AA%20gera%C3%A7%C3%A3o%2C%2016GB%2C%20SSD%20512GB%20(R%24%202.969)%0Ahttps%3A%2F%2Fvieiradiego.github.io%2Fbazar-do-diego%2Fitem%2Fnotebook-dell%2F" target="_blank" rel="noopener"><svg viewBox="0 0 24 24" fill="currentColor" aria-hidden="true"><path d="M17.5 14.4c-.3-.2-1.7-.9-2-1-.3-.1-.5-.2-.7.1-.2.3-.7 1-.9 1.2-.2.2-.3.2-.6.1-.3-.2-1.2-.5-2.3-1.4-.9-.8-1.4-1.7-1.6-2-.2-.3 0-.5.1-.6l.5-.5c.1-.2.2-.3.3-.5 0-.2 0-.4 0-.5 0-.2-.7-1.6-.9-2.2-.2-.6-.5-.5-.7-.5h-.6c-.2 0-.5.1-.8.4-.3.3-1 1-1 2.4S7.4 12.5 7.5 12.7c.2.2 2 3.1 4.9 4.3.7.3 1.2.5 1.6.6.7.2 1.3.2 1.8.1.6-.1 1.7-.7 1.9-1.3.2-.7.2-1.2.2-1.3-.1-.2-.3-.3-.5-.4Z"/><path d="M12 2a10 10 0 0 0-8.6 15L2 22l5.2-1.4A10 10 0 1 0 12 2Zm0 18.2c-1.6 0-3.1-.4-4.4-1.2l-.3-.2-3.1.8.8-3-.2-.3A8.2 8.2 0 1 1 12 20.2Z"/></svg><span>Tenho interesse</span></a>
 </div>
 
 <footer>

diff --git a/docs/publicar/index.html b/docs/publicar/index.html
@@ -301,24 +301,24 @@
 
   <div class="fila">
     <article class="pub item" data-slug="notebook-dell"
-      data-titulo="Notebook Dell Inspiron i7 — 16GB RAM, SSD 512GB"
+      data-titulo="Notebook Dell Inspiron 14 5402 — i7 11ª geração, 16GB, SSD 512GB"
       data-preco="2.969"
-      data-desc="Notebook Dell Inspiron com processador Intel Core i7, 16GB de memória RAM e SSD de 512GB. Placa de vídeo NVIDIA dedicada. Tela sem bordas, acabamento em alumínio. Funcionando perfeitamente, sem travamentos. Ideal para trabalho, estudo e edição leve.
+      data-desc="Dell Inspiron 14 5402 na cor Platinum Silver. Processador Intel Core i7-1165G7 de 11ª geração (4 núcleos, 8 threads, 12MB de cache, até 4.7 GHz), 16GB de RAM DDR4 3200MHz em dois pentes de 8GB trabalhando em dual channel, e SSD NVMe de 512GB. Placa de vídeo dedicada NVIDIA GeForce MX330 de 2GB GDDR5. Tela de 14 polegadas Full HD 1920x1080 antirreflexo, de borda fina. Teclado retroiluminado com leitor de digital no botão de ligar, bateria de 53Wh e fonte de 65W. Windows 10 Home original de fábrica. Funcionando perfeitamente, sem travamentos.
 
 Retirada em Caxias do Sul — RS. Pagamento em dinheiro ou Pix na retirada.
 
 Mais fotos e o catálogo completo: https://vieiradiego.github.io/bazar-do-diego/item/notebook-dell/"
       data-link="https://vieiradiego.github.io/bazar-do-diego/item/notebook-dell/">
       <div class="topo-item">
-        <h2>Notebook Dell Inspiron i7 — 16GB RAM, SSD 512GB</h2>
+        <h2>Notebook Dell Inspiron 14 5402 — i7 11ª geração, 16GB, SSD 512GB</h2>
         <span class="val">R$ 2.969</span>
       </div>
       <a class="cartaz" href="../social/cartaz/notebook-dell.jpg" target="_blank" rel="noopener">
-        <img src="../social/cartaz/notebook-dell.jpg" alt="Cartaz com o preço de Notebook Dell Inspiron i7 — 16GB RAM, SSD 512GB" loading="lazy" width="1080" height="1080">
+        <img src="../social/cartaz/notebook-dell.jpg" alt="Cartaz com o preço de Notebook Dell Inspiron 14 5402 — i7 11ª geração, 16GB, SSD 512GB" loading="lazy" width="1080" height="1080">
         <span>Segure a imagem para salvar nas Fotos</span>
       </a>
       <p class="rot">DESCRIÇÃO</p>
-      <div class="campo">Notebook Dell Inspiron com processador Intel Core i7, 16GB de memória RAM e SSD de 512GB. Placa de vídeo NVIDIA dedicada. Tela sem bordas, acabamento em alumínio. Funcionando perfeitamente, sem travamentos. Ideal para trabalho, estudo e edição leve.
+      <div class="campo">Dell Inspiron 14 5402 na cor Platinum Silver. Processador Intel Core i7-1165G7 de 11ª geração (4 núcleos, 8 threads, 12MB de cache, até 4.7 GHz), 16GB de RAM DDR4 3200MHz em dois pentes de 8GB trabalhando em dual channel, e SSD NVMe de 512GB. Placa de vídeo dedicada NVIDIA GeForce MX330 de 2GB GDDR5. Tela de 14 polegadas Full HD 1920x1080 antirreflexo, de borda fina. Teclado retroiluminado com leitor de digital no botão de ligar, bateria de 53Wh e fonte de 65W. Windows 10 Home original de fábrica. Funcionando perfeitamente, sem travamentos.
 
 Retirada em Caxias do Sul — RS. Pagamento em dinheiro ou Pix na retirada.
 
@@ -330,7 +330,7 @@ Mais fotos e o catálogo completo: https://vieiradiego.github.io/bazar-do-diego/
       </div>
       <p class="info"><b>Categoria:</b> Eletrônicos → Informática<br>
         <b>Estado:</b> Usado — em boas condições · <b>Local:</b> Caxias do Sul, RS<br>
-        <b>Álbum no Fotos:</b> Bazar · Notebook Dell Inspiron i7 — cartaz do preço + 3 tratadas + originais</p>
+        <b>Álbum no Fotos:</b> Bazar · Notebook Dell Inspiron 14 5402 — cartaz do preço + 3 tratadas + originais</p>
       <label class="marcar"><input type="checkbox" class="feito-check"><span>Já publiquei este</span></label>
     </article>
     <article class="pub item" data-slug="tablet-galaxy-tab-s9-fe"

diff --git a/docs/item/airtags/index.html b/docs/item/airtags/index.html
@@ -305,8 +305,8 @@
   <h2>Também no bazar</h2>
   <div class="lista">
     <a href="../notebook-dell/">
-      <img src="../../fotos/notebook-dell-01.jpg" alt="Notebook Dell Inspiron i7 — 16GB RAM, SSD 512GB" loading="lazy" decoding="async" width="1000" height="1000">
-      <span class="n">Notebook Dell Inspiron i7 — 16GB RAM, SSD 512GB</span>
+      <img src="../../fotos/notebook-dell-01.jpg" alt="Notebook Dell Inspiron 14 5402 — i7 11ª geração, 16GB, SSD 512GB" loading="lazy" decoding="async" width="1000" height="1000">
+      <span class="n">Notebook Dell Inspiron 14 5402 — i7 11ª geração, 16GB, SSD 512GB</span>
       <span class="p">R$ 2.969</span>
     </a>
     <a href="../tablet-galaxy-tab-s9-fe/">

diff --git a/docs/item/lego-game-boy/index.html b/docs/item/lego-game-boy/index.html
@@ -307,8 +307,8 @@
   <h2>Também no bazar</h2>
   <div class="lista">
     <a href="../notebook-dell/">
-      <img src="../../fotos/notebook-dell-01.jpg" alt="Notebook Dell Inspiron i7 — 16GB RAM, SSD 512GB" loading="lazy" decoding="async" width="1000" height="1000">
-      <span class="n">Notebook Dell Inspiron i7 — 16GB RAM, SSD 512GB</span>
+      <img src="../../fotos/notebook-dell-01.jpg" alt="Notebook Dell Inspiron 14 5402 — i7 11ª geração, 16GB, SSD 512GB" loading="lazy" decoding="async" width="1000" height="1000">
+      <span class="n">Notebook Dell Inspiron 14 5402 — i7 11ª geração, 16GB, SSD 512GB</span>
       <span class="p">R$ 2.969</span>
     </a>
     <a href="../tablet-galaxy-tab-s9-fe/">

diff --git a/docs/item/mouse-c3tech/index.html b/docs/item/mouse-c3tech/index.html
@@ -305,8 +305,8 @@
   <h2>Também no bazar</h2>
   <div class="lista">
     <a href="../notebook-dell/">
-      <img src="../../fotos/notebook-dell-01.jpg" alt="Notebook Dell Inspiron i7 — 16GB RAM, SSD 512GB" loading="lazy" decoding="async" width="1000" height="1000">
-      <span class="n">Notebook Dell Inspiron i7 — 16GB RAM, SSD 512GB</span>
+      <img src="../../fotos/notebook-dell-01.jpg" alt="Notebook Dell Inspiron 14 5402 — i7 11ª geração, 16GB, SSD 512GB" loading="lazy" decoding="async" width="1000" height="1000">
+      <span class="n">Notebook Dell Inspiron 14 5402 — i7 11ª geração, 16GB, SSD 512GB</span>
       <span class="p">R$ 2.969</span>
     </a>
     <a href="../tablet-galaxy-tab-s9-fe/">

diff --git a/docs/item/mouse-logitech-pebble/index.html b/docs/item/mouse-logitech-pebble/index.html
@@ -305,8 +305,8 @@
   <h2>Também no bazar</h2>
   <div class="lista">
     <a href="../notebook-dell/">
-      <img src="../../fotos/notebook-dell-01.jpg" alt="Notebook Dell Inspiron i7 — 16GB RAM, SSD 512GB" loading="lazy" decoding="async" width="1000" height="1000">
-      <span class="n">Notebook Dell Inspiron i7 — 16GB RAM, SSD 512GB</span>
+      <img src="../../fotos/notebook-dell-01.jpg" alt="Notebook Dell Inspiron 14 5402 — i7 11ª geração, 16GB, SSD 512GB" loading="lazy" decoding="async" width="1000" height="1000">
+      <span class="n">Notebook Dell Inspiron 14 5402 — i7 11ª geração, 16GB, SSD 512GB</span>
       <span class="p">R$ 2.969</span>
     </a>
     <a href="../tablet-galaxy-tab-s9-fe/">

diff --git a/docs/item/roteador-tplink/index.html b/docs/item/roteador-tplink/index.html
@@ -305,8 +305,8 @@
   <h2>Também no bazar</h2>
   <div class="lista">
     <a href="../notebook-dell/">
-      <img src="../../fotos/notebook-dell-01.jpg" alt="Notebook Dell Inspiron i7 — 16GB RAM, SSD 512GB" loading="lazy" decoding="async" width="1000" height="1000">
-      <span class="n">Notebook Dell Inspiron i7 — 16GB RAM, SSD 512GB</span>
+      <img src="../../fotos/notebook-dell-01.jpg" alt="Notebook Dell Inspiron 14 5402 — i7 11ª geração, 16GB, SSD 512GB" loading="lazy" decoding="async" width="1000" height="1000">
+      <span class="n">Notebook Dell Inspiron 14 5402 — i7 11ª geração, 16GB, SSD 512GB</span>
       <span class="p">R$ 2.969</span>
     </a>
     <a href="../tablet-galaxy-tab-s9-fe/">

diff --git a/docs/item/teclado-hp-slim/index.html b/docs/item/teclado-hp-slim/index.html
@@ -305,8 +305,8 @@
   <h2>Também no bazar</h2>
   <div class="lista">
     <a href="../notebook-dell/">
-      <img src="../../fotos/notebook-dell-01.jpg" alt="Notebook Dell Inspiron i7 — 16GB RAM, SSD 512GB" loading="lazy" decoding="async" width="1000" height="1000">
-      <span class="n">Notebook Dell Inspiron i7 — 16GB RAM, SSD 512GB</span>
+      <img src="../../fotos/notebook-dell-01.jpg" alt="Notebook Dell Inspiron 14 5402 — i7 11ª geração, 16GB, SSD 512GB" loading="lazy" decoding="async" width="1000" height="1000">
+      <span class="n">Notebook Dell Inspiron 14 5402 — i7 11ª geração, 16GB, SSD 512GB</span>
       <span class="p">R$ 2.969</span>
     </a>
     <a href="../tablet-galaxy-tab-s9-fe/">

diff --git a/docs/item/teclado-logitech-gpro/index.html b/docs/item/teclado-logitech-gpro/index.html
@@ -307,8 +307,8 @@
   <h2>Também no bazar</h2>
   <div class="lista">
     <a href="../notebook-dell/">
-      <img src="../../fotos/notebook-dell-01.jpg" alt="Notebook Dell Inspiron i7 — 16GB RAM, SSD 512GB" loading="lazy" decoding="async" width="1000" height="1000">
-      <span class="n">Notebook Dell Inspiron i7 — 16GB RAM, SSD 512GB</span>
+      <img src="../../fotos/notebook-dell-01.jpg" alt="Notebook Dell Inspiron 14 5402 — i7 11ª geração, 16GB, SSD 512GB" loading="lazy" decoding="async" width="1000" height="1000">
+      <span class="n">Notebook Dell Inspiron 14 5402 — i7 11ª geração, 16GB, SSD 512GB</span>
       <span class="p">R$ 2.969</span>
     </a>
     <a href="../tablet-galaxy-tab-s9-fe/">

diff --git a/docs/item/teclado-logitech-k400/index.html b/docs/item/teclado-logitech-k400/index.html
@@ -305,8 +305,8 @@
   <h2>Também no bazar</h2>
   <div class="lista">
     <a href="../notebook-dell/">
-      <img src="../../fotos/notebook-dell-01.jpg" alt="Notebook Dell Inspiron i7 — 16GB RAM, SSD 512GB" loading="lazy" decoding="async" width="1000" height="1000">
-      <span class="n">Notebook Dell Inspiron i7 — 16GB RAM, SSD 512GB</span>
+      <img src="../../fotos/notebook-dell-01.jpg" alt="Notebook Dell Inspiron 14 5402 — i7 11ª geração, 16GB, SSD 512GB" loading="lazy" decoding="async" width="1000" height="1000">
+      <span class="n">Notebook Dell Inspiron 14 5402 — i7 11ª geração, 16GB, SSD 512GB</span>
       <span class="p">R$ 2.969</span>
     </a>
     <a href="../tablet-galaxy-tab-s9-fe/">

diff --git a/docs/item/tablet-galaxy-tab-s9-fe/index.html b/docs/item/tablet-galaxy-tab-s9-fe/index.html
@@ -307,8 +307,8 @@
   <h2>Também no bazar</h2>
   <div class="lista">
     <a href="../notebook-dell/">
-      <img src="../../fotos/notebook-dell-01.jpg" alt="Notebook Dell Inspiron i7 — 16GB RAM, SSD 512GB" loading="lazy" decoding="async" width="1000" height="1000">
-      <span class="n">Notebook Dell Inspiron i7 — 16GB RAM, SSD 512GB</span>
+      <img src="../../fotos/notebook-dell-01.jpg" alt="Notebook Dell Inspiron 14 5402 — i7 11ª geração, 16GB, SSD 512GB" loading="lazy" decoding="async" width="1000" height="1000">
+      <span class="n">Notebook Dell Inspiron 14 5402 — i7 11ª geração, 16GB, SSD 512GB</span>
       <span class="p">R$ 2.969</span>
     </a>
     <a href="../teclado-logitech-gpro/">
